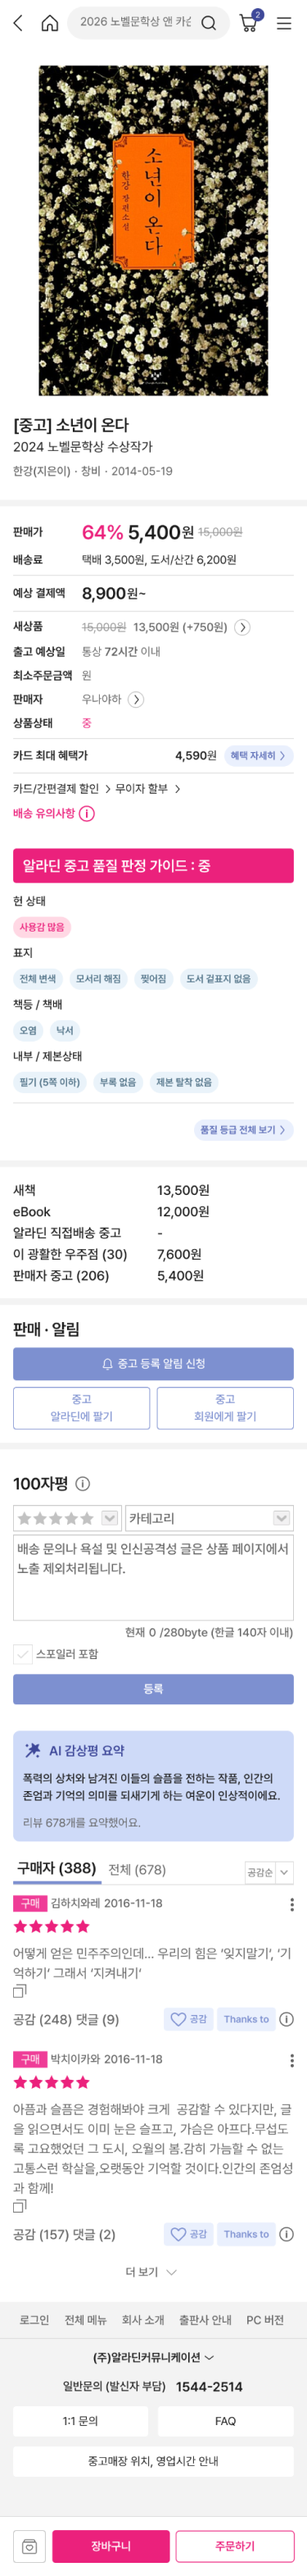
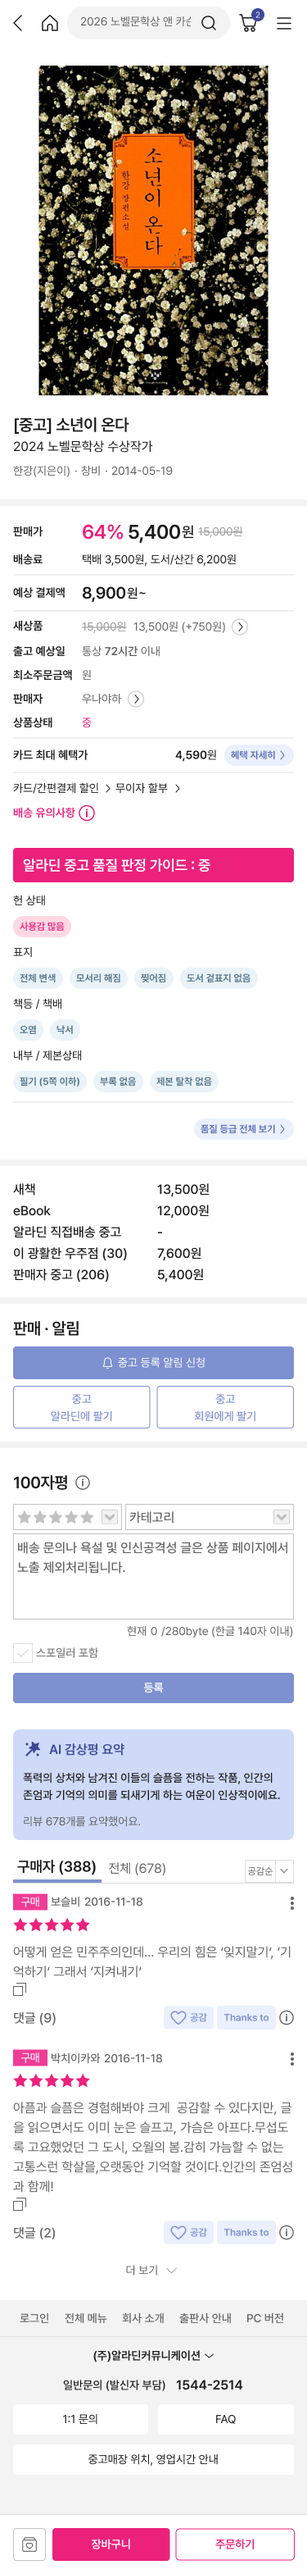
docs: 상품 상세 캡처를 수정본으로 교체하고 영역 위치 조정

diff --git a/data.js b/data.js
@@ -1,5 +1,6 @@
 // 화면설계서·기능명세서 ver1.2 (피그마 5711:18438) 내용
 // 화면 캡처·좌표는 1104 update 최종 디자인(6091:8696) 기준, 좌표는 375px 디자인 기준
+// 상품 상세만 2026.11.07 수정본(detail-redesign 5443:10002) 기준 (리뷰 아래 ‘공감 (N)’ 숫자 삭제)
 //
 // 글 쓰는 규칙
 // - 문장 대신 짧은 항목(개조식)으로, 한 항목에 한 가지만
@@ -192,7 +193,7 @@ const SCREENS = [
   },
   {
     id: "SC-DET-01", key: "det", name: "상품 상세 · 중고책", short: "상품 상세",
-    img: "assets/sc-det.png", w: 375, h: 3141, source: "6091:10619",
+    img: "assets/sc-det.png", w: 375, h: 3139, source: "5443:10002",
     summary: "고른 판매 상품의 가격·상태를 확인하고 장바구니에 담기",
     entry: ["가격 비교에서 판매 상품을 고를 때", "장바구니에서 상품명을 누를 때"],
     flow: [
@@ -203,7 +204,7 @@ const SCREENS = [
       "판매·알림은 아래쪽 보조 영역 / AI 요약은 승인·개발된 경우에만 표시"
     ],
     els: [
-      { n: "01", name: "가격 정보", fns: ["F-DET-01"], boxes: [[5, 621, 365, 395]],
+      { n: "01", name: "가격 정보", fns: ["F-DET-01"], boxes: [[5, 621, 365, 394]],
         role: "이 상품을 사면 얼마를 내는지 한눈에 보여주는 영역",
         show: ["판매가·배송료·예상 결제액", "‘혜택 자세히’ (접혀 있음)"],
         act: ["판매가 = 화면에서 가장 큰 숫자", "바로 아래 배송비·예상 결제액", "마일리지·카드 혜택은 ‘혜택 자세히’ 안에 접어 둠"],
@@ -212,7 +213,7 @@ const SCREENS = [
               rule: ["맨 위: 제목·판매자·판매가", "바로 아래: 배송비·예상 결제액·출고 안내", "카드 할인은 접어 둠"],
               ok: ["고른 상품의 구매 조건이 위쪽에 모여 보임"],
               fail: ["가격·배송비를 모름 → ‘미확정’ 안내", "확정된 금액처럼 보이게 하지 않음"] }] },
-      { n: "02", name: "이 책의 실제 상태", fns: ["F-DET-02"], boxes: [[5, 1023, 365, 389]],
+      { n: "02", name: "이 책의 실제 상태", fns: ["F-DET-02"], boxes: [[5, 1022, 365, 389]],
         role: "사기 전에 책 상태를 자세히 확인하는 영역",
         show: ["등급 ‘중’", "상태 표시: 사용감·표지·책등/책배·내부/제본", "‘품질 등급 전체 보기’"],
         act: ["실제 상태를 4가지(사용감·표지·책등/책배·내부/제본)로 나눠 짧게 표시", "‘품질 등급 전체 보기’ 누름 → 일반 등급 기준표"],
@@ -221,7 +222,7 @@ const SCREENS = [
               rule: ["이 상품의 실제 상태 요약을 먼저 표시", "기준표는 누르면 펼침, 다시 누르면 접힘"],
               ok: ["이 상품의 실제 상태와 일반 등급 기준을 따로 볼 수 있음"],
               fail: ["상태 정보가 없음 → “판매자 상태 설명 없음”", "기준표 불러오기 실패 → ‘다시 시도’"] }] },
-      { n: "03", name: "판매·알림 (아래쪽 보조 영역)", fns: ["F-DET-05"], boxes: [[5, 1595, 365, 160]],
+      { n: "03", name: "판매·알림 (아래쪽 보조 영역)", fns: ["F-DET-05"], boxes: [[5, 1594, 365, 160]],
         role: "책을 팔고 싶거나, 이 책 중고가 올라오면 알림을 받고 싶은 사람을 위한 영역",
         show: ["본문 아래 ‘판매 · 알림’ 영역", "알림 신청, 중고로 팔기 링크"],
         act: ["판매·등록 버튼을 없애는 게 아니라 아래 ‘판매·알림’ 영역으로 옮김", "중고 등록 알림은 따로 신청·취소"],
@@ -230,7 +231,7 @@ const SCREENS = [
               rule: ["판매 등록은 별도 링크로 분리", "중고 등록 알림은 신청/취소 상태로 관리"],
               ok: ["구매 버튼과 판매·알림 버튼이 눈에 띄게 분리됨"],
               fail: ["알림 신청 실패 → 원래 신청 상태 유지", "로그인 필요 여부는 기존 계정 정책 따름"] }] },
-      { n: "04", name: "AI 감상평 요약", fns: ["F-DET-04"], boxes: [[5, 2108, 365, 140]],
+      { n: "04", name: "AI 감상평 요약", fns: ["F-DET-04"], boxes: [[5, 2107, 365, 139]],
         role: "리뷰를 다 읽지 않아도 독자 반응을 빠르게 알 수 있게 요약",
         show: ["리뷰 영역의 ‘AI 감상평 요약’ 카드", "‘리뷰 678개를 요약했어요.’ 안내", "운영 승인·데이터 정책은 아직 미정"],
         act: ["새로 제안하는 기능으로 따로 구분", "승인·개발된 경우에만 평가 탭 안에 2~3문장으로", "개발 전이거나 데이터가 없으면 카드를 숨기고 기존 리뷰는 유지"],
@@ -239,7 +240,7 @@ const SCREENS = [
               rule: ["최종 디자인의 ‘AI 감상평 요약’ 카드 + 출처·리뷰 개수 안내 사용", "승인된 실제 데이터만 표시", "평점·구매자 분포는 디자인에 없으므로 임의로 추가하지 않음"],
               ok: ["요약 + 요약한 리뷰 수 표시", "운영에서 지원하지 않으면 요약 카드 숨김 (기획안 규칙)"],
               fail: ["데이터 없음을 0점으로 표시하지 않음", "AI 요약 실패 → 평가 정보만 유지"] }] },
-      { n: "05", name: "Thanks to·공감 버튼", fns: ["F-DET-07"], boxes: [[5, 2442, 365, 42], [5, 2703, 365, 42]],
+      { n: "05", name: "Thanks to·공감 버튼", fns: ["F-DET-07"], boxes: [[5, 2440, 365, 42], [5, 2701, 365, 42]],
         role: "좋은 리뷰에 공감하거나, 리뷰 쓴 사람에게 고마움을 표시하는 버튼",
         show: ["리뷰 아래 ‘공감’, ‘Thanks to’ 버튼", "리뷰 아래 왼쪽에는 ‘댓글 (N)’만 표시 (‘공감 (N)’ 숫자는 없앰)", "Thanks to 설명 말풍선"],
         act: ["두 버튼 옆에 각각 무슨 버튼인지 짧은 설명", "공감 누름 → 눌린 모양, 다시 누름 → 취소 (공감 숫자는 표시하지 않음)", "Thanks to 보상 정책은 확인 전까지 정하지 않음"],
@@ -250,7 +251,7 @@ const SCREENS = [
               rule: ["‘공감’ 누름 → 눌린 모양으로 바뀜", "리뷰 아래 ‘공감 (N)’ 숫자는 표시하지 않음 (‘댓글 (N)’만 표시)", "ⓘ 누름 → 아이콘 바로 위에 설명 말풍선 ‘추천하고 적립 혜택 받기’", "말풍선 바깥 누름 → 닫힘"],
               ok: ["공감 버튼 모양이 바뀌고, 말풍선이 열리고 닫힘"],
               planned: ["공감 숫자 갱신, 다시 누르면 취소", "‘Thanks to’ 누름 → 리뷰 쓴 사람에게 적립 혜택", "로그인·중복 처리, 실패하면 이전 상태 유지"] }] },
-      { n: "06", name: "하단 구매 버튼·부가 정보", fns: ["F-DET-06", "F-DET-03"], boxes: [[5, 3069, 365, 72]], flowStep: true,
+      { n: "06", name: "하단 구매 버튼·부가 정보", fns: ["F-DET-06", "F-DET-03"], boxes: [[5, 3067, 365, 72]], flowStep: true,
         role: "어디까지 스크롤해도 바로 담거나 살 수 있게 하는 버튼, 그리고 책에 대한 추가 정보",
         show: ["화면 아래 구매 바: ‘장바구니’·‘주문하기’ + 왼쪽 보관 아이콘", "100자평·구매자 리뷰 영역 있음", "책소개·목차·책속에서 영역은 지금 디자인에 없음"],
         act: ["‘장바구니’·‘주문하기’는 스크롤해도 화면 아래에 계속 보임", "담기 성공 → 완료 안내", "‘주문하기’ → 이 판매 상품으로 [주문] 페이지로 이동", "품절·가격 변경 → 안내 후 다시 확인"],
@@ -384,7 +385,8 @@ const LOG = [
   ["2026.11.06", ["문서 인쇄에서 ‘피그마 원본’ 줄과 ‘(피그마 연결)’·‘피그마: …’ 표기 제외 (화면에서는 그대로)"]],
   ["2026.11.07", ["홈 ‘편집장의 선택’ 좌우 넘김과 ‘추천 문구’ 바뀜을 동작하지 않는 것으로 정정 → 홈 좌우 넘김은 모두 동작하지 않음", "동작하지 않게 된 좌우 넘김·추천 문구 설명은 회색 ‘원래 기획한 기능’ 칸으로 옮김"]],
   ["2026.11.07", ["가격 비교 보관 아이콘(눌린 모양 + 보관 완료 알림)을 동작하지 않는 것으로 정정 → ‘장바구니·보관·주문’ 기능은 동작하지 않음", "카드 안 보관 아이콘도 ‘장바구니’·‘주문하기’처럼 눌러도 아무 일 없음으로 정리", "전체 흐름 보기의 ‘보관’ 보조 흐름과 시연하기의 보관 아이콘 누를 수 있는 영역 삭제"]],
-  ["2026.11.07", ["상품 상세 리뷰 아래 ‘공감 (N)’ 숫자 표시를 없앤 디자인 수정 반영 → ‘댓글 (N)’만 표시, 공감 버튼 누름(눌린 모양)은 그대로", "‘동작하지 않음’의 ‘공감 숫자 바뀌기’는 숫자 표시가 없어져 삭제"]]
+  ["2026.11.07", ["상품 상세 리뷰 아래 ‘공감 (N)’ 숫자 표시를 없앤 디자인 수정 반영 → ‘댓글 (N)’만 표시, 공감 버튼 누름(눌린 모양)은 그대로", "‘동작하지 않음’의 ‘공감 숫자 바뀌기’는 숫자 표시가 없어져 삭제"]],
+  ["2026.11.07", ["상품 상세 화면 캡처를 수정본(5443:10002)으로 교체하고, 높이 3141→3139에 맞춰 요소 박스·시연 영역 위치 조정"]]
 ];
 
 // 요소별 동작 여부 (피그마 프로토타입 연결 + 디자인 메모의 위아래 고정 기준, 2026.11.05 확인)
@@ -452,11 +454,11 @@ const DEMO = {
   ],
   det: [
     { id: "back", r: [0, 0, 44, 56], label: "뒤로", act: "go", to: "cmp" },
-    { id: "like1", r: [200, 2448, 61, 29], label: "1번째 리뷰 공감", act: "toggle", el: "05" },
-    { id: "info1", r: [341, 2454, 18, 18], label: "1번째 리뷰 Thanks to ⓘ", act: "tooltip", el: "05" },
-    { id: "like2", r: [200, 2710, 61, 29], label: "2번째 리뷰 공감", act: "toggle", el: "05" },
-    { id: "info2", r: [341, 2716, 18, 18], label: "2번째 리뷰 Thanks to ⓘ", act: "tooltip", el: "05" },
-    { id: "cart", r: [64, 3085, 144, 40], label: "아래 ‘장바구니’", act: "cartSnack", el: "06" }
+    { id: "like1", r: [200, 2446, 61, 29], label: "1번째 리뷰 공감", act: "toggle", el: "05" },
+    { id: "info1", r: [341, 2452, 18, 18], label: "1번째 리뷰 Thanks to ⓘ", act: "tooltip", el: "05" },
+    { id: "like2", r: [200, 2708, 61, 29], label: "2번째 리뷰 공감", act: "toggle", el: "05" },
+    { id: "info2", r: [341, 2714, 18, 18], label: "2번째 리뷰 Thanks to ⓘ", act: "tooltip", el: "05" },
+    { id: "cart", r: [64, 3083, 144, 40], label: "아래 ‘장바구니’", act: "cartSnack", el: "06" }
   ],
   crt: [
     { id: "back", r: [0, 0, 44, 56], label: "뒤로", act: "go", to: "det" }
